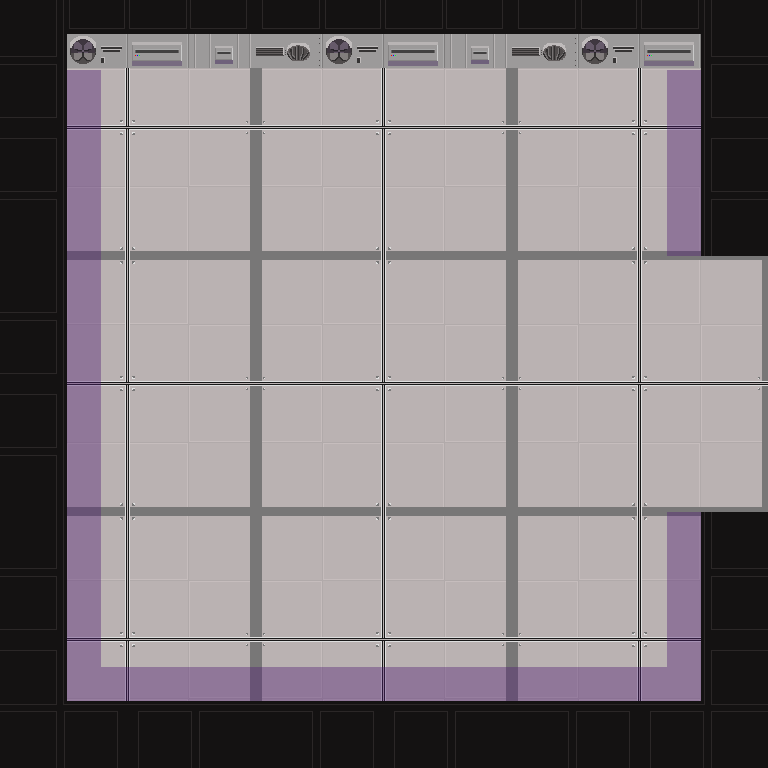
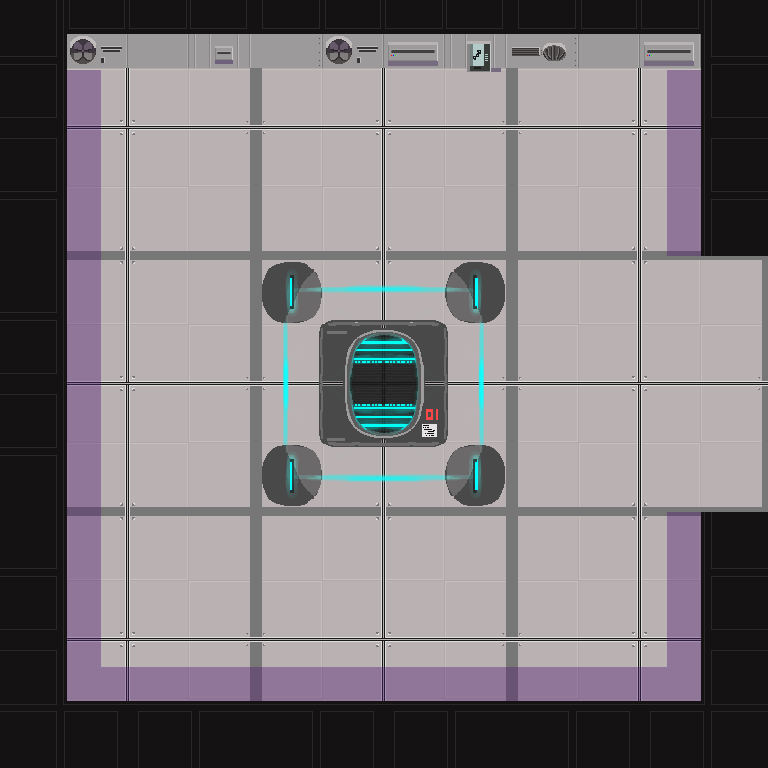
added chests

diff --git a/Game engine/src/gameObjects/Chest.java b/Game engine/src/gameObjects/Chest.java
@@ -1,9 +1,12 @@
 package gameObjects;
 
-import java.awt.Dimension;
+import java.awt.Color;
 import java.awt.Graphics;
-import java.awt.Rectangle;
-import java.awt.image.BufferedImage;
+import java.awt.Graphics2D;
+import java.awt.Image;
+import java.util.Random;
+
+import fileIO.ImageLoader;
 
 /**
  * Basic chest entity, drops loot when hit
@@ -12,27 +15,54 @@ import java.awt.image.BufferedImage;
  *
  */
 
-public class Chest extends GameObject {
-	private BufferedImage sprite;
+public class Chest extends Prop {
 	private Loot item;
 	private boolean isOpen;
 	
-	public Chest(int x, int y, Dimension size, Loot item, BufferedImage sprite) {
-		rBox = new Rectangle(size);
-		rBox.x = x;
-		rBox.y = y;
-		this.hp = 10;
-		this.x = x;
-		this.y = y;
-		this.item = item;
-		this.sprite = sprite;
+	public Chest(int x, int y, Image sprite) {
+		super(x, y, sprite);
 		isOpen = false;
+		computeDrop();
 	}
 	
+	private void computeDrop() {
+		int rand = new Random().nextInt(7);
+		switch (rand) {
+		case 0:																//BadGun
+			item = new Gun(10, 300, 5, 5, 15, 0, "Bad Gun", isJar);
+			break;
+		case 1:																//BetterGun
+			item = new Gun(20, 200, 15, 8, 15, 1, "Better Gun", isJar);
+			
+			break;
+		case 2:																//FederalReserve
+			item = new Gun(10, 50, 30, 10, 30, 2, "Federal Reserve", isJar);
+			
+			break;
+		case 3:																//ElPresidente
+			item = new Gun(40, 600, 8, 15, 20, 3, "El Presidente", isJar);
+			
+			break;
+		case 4:																//ToiletPaper
+			item = new Gun(100, 10000, 3, 7, 50, 4, "Toilet Paper", isJar);
+			
+			break;
+		case 5:																//Health Item
+			item = new Health(100, "Small Heath Potion", null, 2000);	
+			break;
+		case 6:
+			rand = new Random().nextInt(100);
+			item = new AmmoMag(10 + rand, ImageLoader.PISTOLMAG);
+		}
+		if(debug) System.out.println("Random number in chest ComputeDrop():" + rand + " Drop:" + item.getName());
+	}
 	
 	@Override
 	public void paint(Graphics g) {
-		g.drawImage(sprite, x, y, rBox.width, rBox.height, null);
+		Graphics2D g2d = (Graphics2D) g;
+		g2d.setColor(Color.black);
+		g2d.draw(rBox);
+		g.drawImage(Sprite, x, y, rBox.width, rBox.height, null);
 	}
 
 	@Override

diff --git a/Game engine/src/driver/Driver.java b/Game engine/src/driver/Driver.java
@@ -14,6 +14,7 @@ import java.awt.event.MouseListener;
 import java.awt.event.MouseMotionListener;
 import java.io.IOException;
 import java.util.ArrayList;
+import java.util.Random;
 
 import javax.swing.JFrame;
 import javax.swing.JPanel;
@@ -198,14 +199,14 @@ public class Driver extends JPanel implements ActionListener, KeyListener, Mouse
 			
 			
 			//timed spawning of enemies (temporary for now)
-			/*if(System.currentTimeMillis() - lastEnemySpawn > 10000) {
+			if(System.currentTimeMillis() - lastEnemySpawn > 10000) {
 				lastEnemySpawn = System.currentTimeMillis();
 				try {
 					currentRoom.getEntities().add(new Enemy(200, 200, 200, new Dimension(64,64), ImageLoader.NPCSKIN, isJar));
 				} catch (IOException e) {
 					e.printStackTrace();
 				}
-			}*/
+			}
 			
 			//update all animations at 30 fps
 			if(System.currentTimeMillis() - lastAnimationUpdate > 33) {
@@ -300,7 +301,19 @@ public class Driver extends JPanel implements ActionListener, KeyListener, Mouse
 		rooms[5] = new Room(new Rectangle(48, 40, 905, 870), ImageLoader.ROOMS[5], new ArrayList<GameObject>(), true, f.getSize());
 		rooms[4].setLeftRoom(rooms[5]);
 		rooms[5].setRightRoom(rooms[4]);
+		addchests();
 	}
+	private void addchests() {
+		Random rand = new Random();
+		for(Room r : rooms) {
+			int[] bounds = r.getBounds();
+			if(rand.nextBoolean()) {
+				if(debug) System.out.println("Added a chest in a room.");
+				r.addProp(new Chest(rand.nextInt(905 - 48 + 1) + 48, rand.nextInt(870 - 40 + 1) + 40 , ImageLoader.CHEST));
+			}
+		}
+	}
+	
 	
 	
 	

diff --git a/Game engine/src/fileIO/ImageLoader.java b/Game engine/src/fileIO/ImageLoader.java
@@ -38,6 +38,7 @@ public class ImageLoader implements Runnable{
 	public static BufferedImage FEDBULLET;
 	public static BufferedImage LASERBEAM[] = new BufferedImage[4];
 	public static BufferedImage YARIS;
+	public static BufferedImage CHEST;
 	private boolean isJar;
 	private static boolean debug;
 	public static int totalNumberToLoad = 36;
@@ -50,6 +51,7 @@ public class ImageLoader implements Runnable{
 			if(debug) System.out.println("Loading images from Jar");
 			try {
 				NO_IMAGE = getImageFromJar("/img/noimage.png");
+				CHEST = getImageFromJar("/img/chest.png");
 
 				MARINE_STARTUP = getImageFromJar("/img/Marine_frontIdle_hands.png");
 				WSB_STARTUP = getImageFromJar("/img/WSB_frontIdle_hands.png");

diff --git a/Game engine/src/gameObjects/Prop.java b/Game engine/src/gameObjects/Prop.java
@@ -1,0 +1,28 @@
+package gameObjects;
+
+import java.awt.Graphics;
+import java.awt.Image;
+import java.awt.Rectangle;
+
+public class Prop extends GameObject{
+	protected Image Sprite;
+	public Prop(int x, int y, Image sprite) {
+		this.x = x;
+		this.y = y;
+		this.Sprite = sprite;
+		this.rBox = new Rectangle(x, y, sprite.getWidth(null), sprite.getHeight(null));
+		hp = 1;
+	}
+
+	@Override
+	public void paint(Graphics g) {
+		g.drawImage(Sprite, x, y,null);
+	}
+
+	@Override
+	public void advanceAnimationFrame() {
+		// TODO Auto-generated method stub
+		
+	}
+
+}

diff --git a/Game engine/src/GameInit.java b/Game engine/src/GameInit.java
@@ -1,4 +1,5 @@
 import java.awt.Dimension;
+import java.awt.Toolkit;
 import java.nio.file.Path;
 import java.nio.file.Paths;
 import displayComponents.Startup;
@@ -16,6 +17,7 @@ public class GameInit{
 			if(args[0].equals("true"))
 				debug = true;
 		}
+		Dimension screenSize = Toolkit.getDefaultToolkit().getScreenSize();
 		GameInit gameInit = new GameInit(Paths.get(".").toAbsolutePath(), "test", debug, new Dimension(1000, 1000), true);
 	}
 }

diff --git a/Game engine/src/gameObjects/Player.java b/Game engine/src/gameObjects/Player.java
@@ -339,7 +339,10 @@ public class Player extends GameObject{
 	}
 	
 	public void reload() {
-		ammo = activeGun.reload(ammo);
+		if(activeGun.id == 0)
+			ammo = activeGun.reload(activeGun.getMaxAmmoInMag());
+		else 
+			ammo = activeGun.reload(ammo);
 	}
 	
 	

diff --git a/Game engine/src/gameObjects/Room.java b/Game engine/src/gameObjects/Room.java
@@ -198,4 +198,5 @@ public class Room {
 	
 	public boolean isDoorOpen() { return doorOpen; }
 	public ArrayList<GameObject> getEntities(){ return entities; }
+	public void addProp(Prop p) { entities.add(p);}
 }
